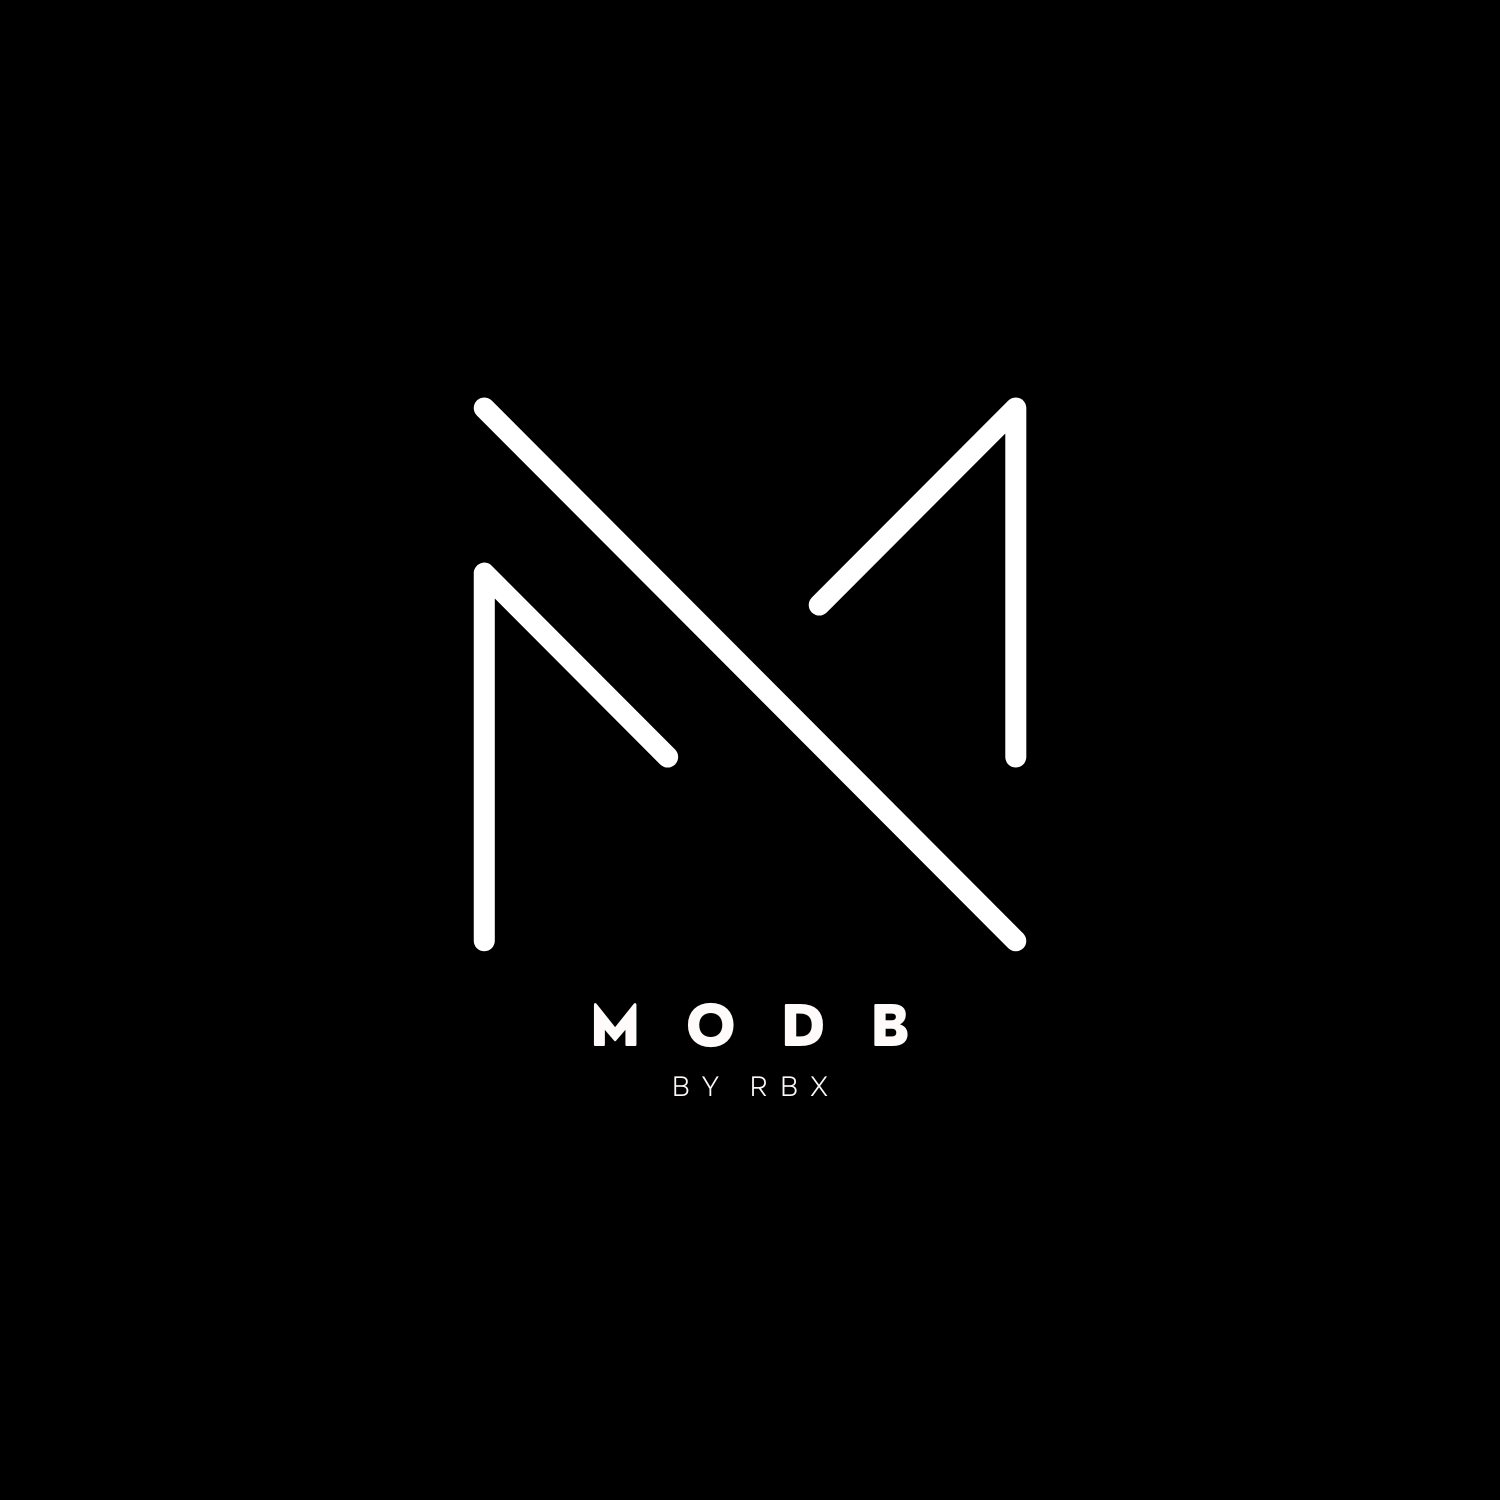
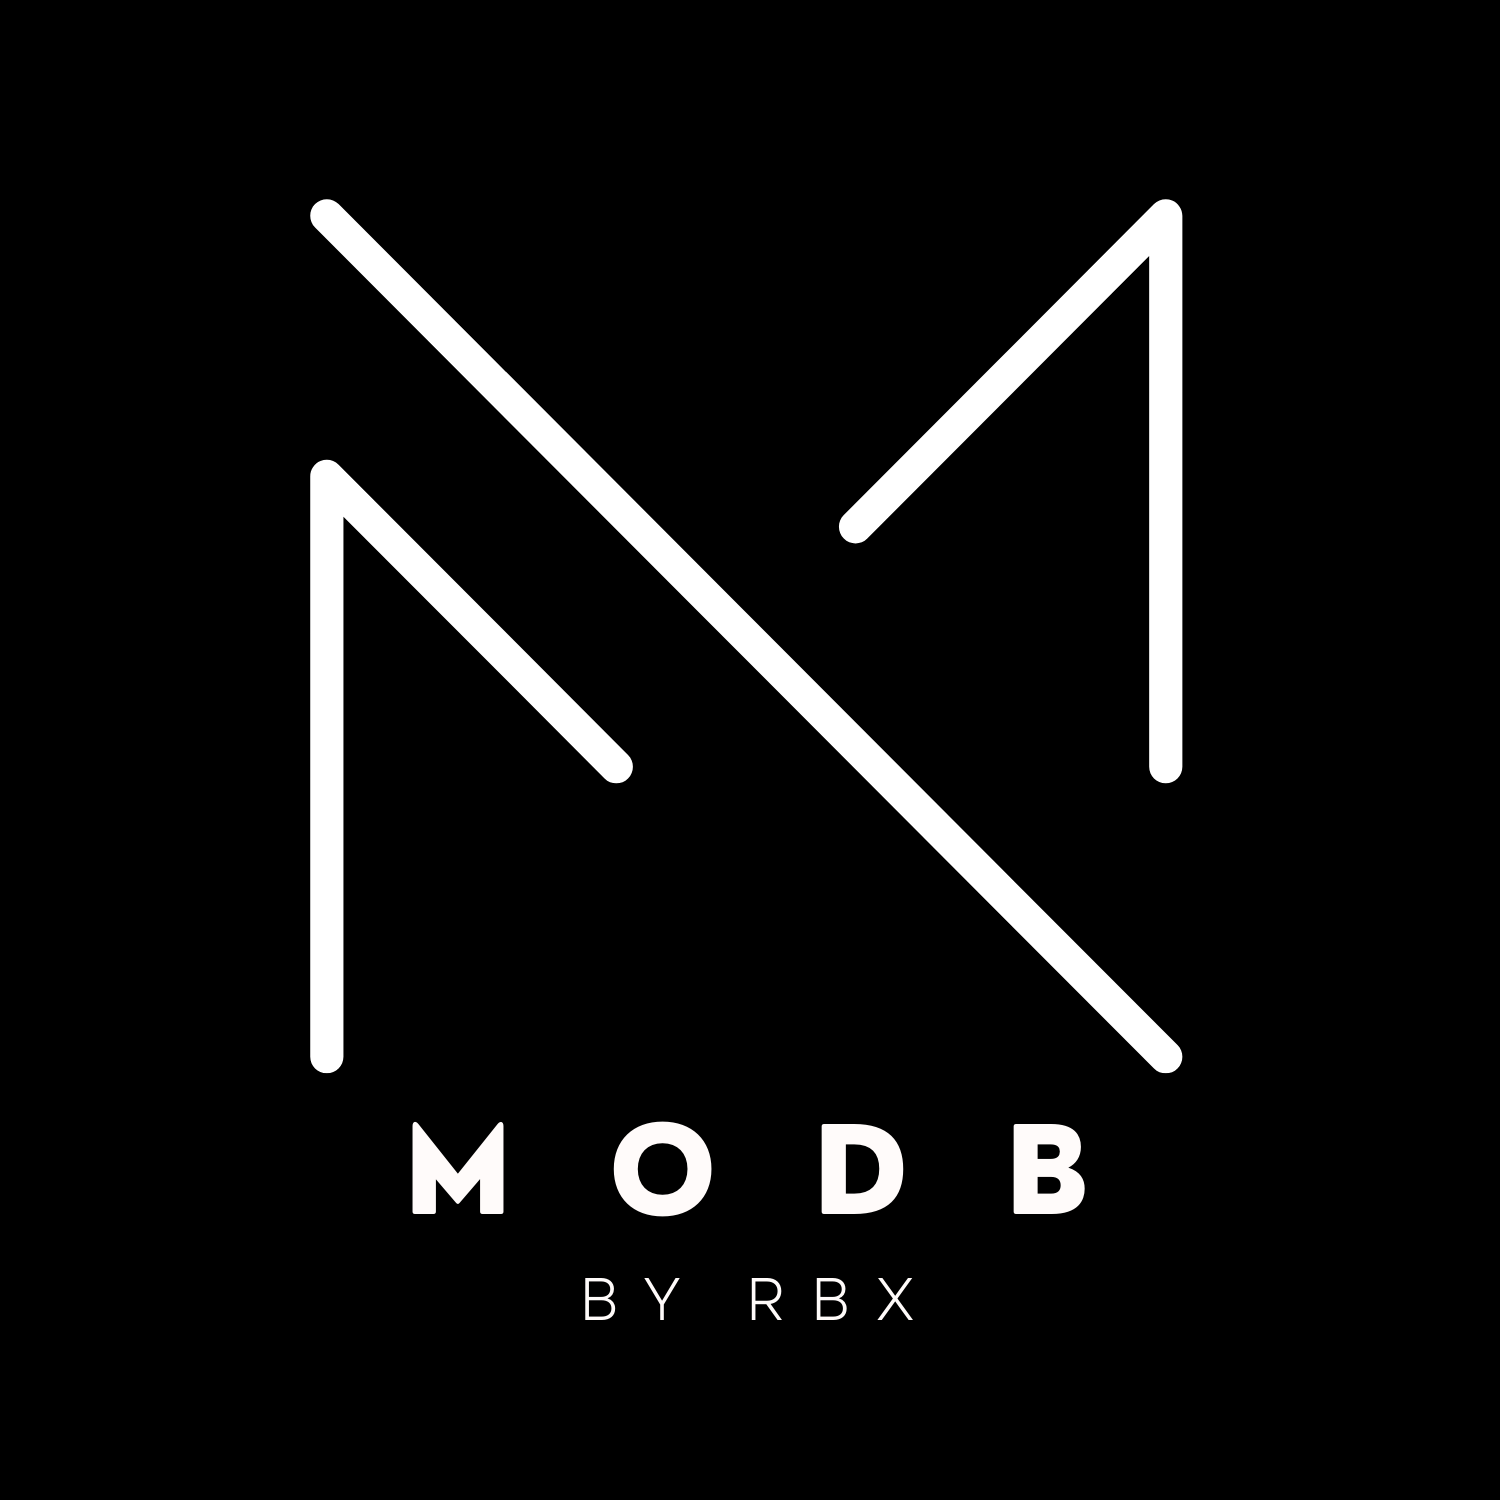
front header

diff --git a/TPReactG2/src/components/Header.jsx b/TPReactG2/src/components/Header.jsx
@@ -1,6 +1,6 @@
 import React from 'react';
 import { Link } from 'react-router-dom';
-import Logo from '../assets/images/logo-loupe.png'
+import Logo from '../assets/images/MODB_blanc.png'
 import LogoPanier from '../assets/images/logo-panier.png'
 import LogoRecherche from '../assets/images/logo-loupe.png'
 import SearchBar from './SearchBar';
